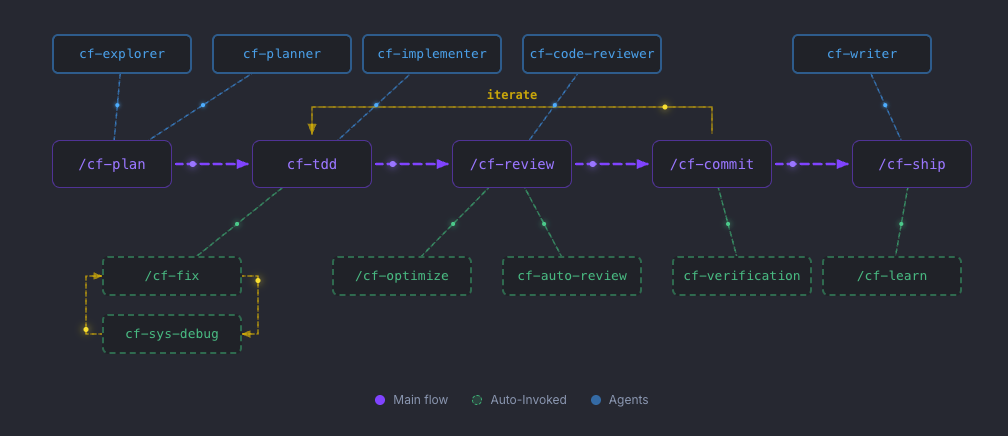
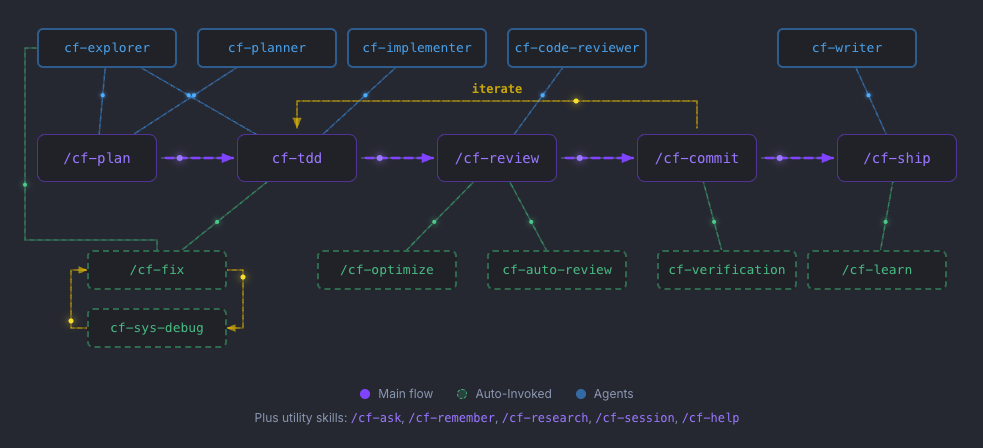
chore: improve the workflow in action graph
chore

diff --git a/website/src/components/landing/HowItWorks.tsx b/website/src/components/landing/HowItWorks.tsx
@@ -97,7 +97,8 @@ const sideNodes: SideNode[] = [
   {
     id: "fix",
     label: "/cf-fix",
-    description: "Auto-invoked when bugs are detected at any stage",
+    description:
+      "Auto-invoked when bugs are detected — calls cf-explorer for codebase analysis",
     parentId: "implement",
     kind: "auto",
   },
@@ -250,6 +251,21 @@ function sidePath(node: SideNode, overrideParentId?: string): string {
   return `M ${parent.x} ${parent.y} L ${side.x} ${side.y}`;
 }
 
+/** Direct connections between side nodes (e.g. fix → explorer) */
+const sideToSideLinks: { fromId: string; toId: string }[] = [
+  { fromId: "fix", toId: "explorer" },
+];
+
+function sideToSidePath(fromId: string, toId: string): string {
+  const from = sideNodes.find((n) => n.id === fromId)!;
+  const to = sideNodes.find((n) => n.id === toId)!;
+  const fp = getSidePos(from);
+  const tp = getSidePos(to);
+  // Start from top edge of "from" node, route left then up to left edge of "to" node
+  const edgeX = Math.max(8, Math.min(fp.x, tp.x) - SIDE_W / 2 - 20);
+  return `M ${fp.x} ${fp.y - SIDE_H / 2} L ${fp.x} ${fp.y - SIDE_H / 2 - 10} L ${edgeX} ${fp.y - SIDE_H / 2 - 10} L ${edgeX} ${tp.y} L ${tp.x - SIDE_W / 2} ${tp.y}`;
+}
+
 /* ────────────────────────────────────────────────────────────
    COMPONENT
    ──────────────────────────────────────────────────────────── */
@@ -303,6 +319,18 @@ export default function HowItWorks() {
     if (sideMatch) {
       connectedIds.add(sideMatch.parentId);
       sideMatch.extraParents?.forEach((ep) => connectedIds.add(ep));
+    }
+    // Side-to-side links
+    sideToSideLinks.forEach(({ fromId, toId }) => {
+      if (hovered === fromId || hovered === toId) {
+        connectedIds.add(fromId);
+        connectedIds.add(toId);
+      }
+    });
+    // fix ↔ sys-debug loop pair
+    if (hovered === "fix" || hovered === "sys-debug") {
+      connectedIds.add("fix");
+      connectedIds.add("sys-debug");
     }
     // Main flow neighbors
     const mainIdx = mainNodes.findIndex((n) => n.id === hovered);
@@ -704,6 +732,48 @@ export default function HowItWorks() {
                   );
                 });
               })}
+
+              {/* ── Side-to-side connections (e.g. fix → explorer) ── */}
+              {sideToSideLinks.map(({ fromId, toId }) => {
+                const d = sideToSidePath(fromId, toId);
+                const dim =
+                  hovered &&
+                  !connectedIds.has(fromId) &&
+                  !connectedIds.has(toId);
+                return (
+                  <g
+                    key={`s2s-${fromId}-${toId}`}
+                    className={`transition-opacity duration-300 ${dim ? "opacity-10" : "opacity-100"}`}
+                  >
+                    <path
+                      d={d}
+                      stroke="currentColor"
+                      className="text-emerald-500/40"
+                      strokeWidth="1.5"
+                      strokeDasharray="4 4"
+                    />
+                    <path
+                      d={d}
+                      stroke="currentColor"
+                      className="auto-dash-animate text-emerald-500/60"
+                      strokeWidth="1.5"
+                      strokeDasharray="4 4"
+                      strokeLinecap="round"
+                    />
+                    <circle
+                      r="2"
+                      className="fill-current text-emerald-400"
+                      filter="url(#glow-e)"
+                    >
+                      <animateMotion
+                        dur="2s"
+                        repeatCount="indefinite"
+                        path={d}
+                      />
+                    </circle>
+                  </g>
+                );
+              })}
             </svg>
 
             {/* ── Main flow nodes (HTML) ── */}
@@ -833,13 +903,13 @@ export default function HowItWorks() {
               Agents
             </span>
           </div>
-          <p className="mt-2 text-center text-[11px] text-slate-500">
+          <p className="mt-2 text-center text-xs text-slate-400">
             Plus utility skills:{" "}
-            <span className="font-mono text-slate-400">/cf-ask</span>,{" "}
-            <span className="font-mono text-slate-400">/cf-remember</span>,{" "}
-            <span className="font-mono text-slate-400">/cf-research</span>,{" "}
-            <span className="font-mono text-slate-400">/cf-session</span>,{" "}
-            <span className="font-mono text-slate-400">/cf-help</span>
+            <a href="/docs/skills/cf-ask/" target="_blank" rel="noopener" className="font-mono text-violet-400 transition-colors hover:text-violet-300">/cf-ask</a>,{" "}
+            <a href="/docs/skills/cf-remember/" target="_blank" rel="noopener" className="font-mono text-violet-400 transition-colors hover:text-violet-300">/cf-remember</a>,{" "}
+            <a href="/docs/skills/cf-research/" target="_blank" rel="noopener" className="font-mono text-violet-400 transition-colors hover:text-violet-300">/cf-research</a>,{" "}
+            <a href="/docs/skills/cf-session/" target="_blank" rel="noopener" className="font-mono text-violet-400 transition-colors hover:text-violet-300">/cf-session</a>,{" "}
+            <a href="/docs/skills/cf-help/" target="_blank" rel="noopener" className="font-mono text-violet-400 transition-colors hover:text-violet-300">/cf-help</a>
           </p>
         </Container>
       </section>
@@ -872,13 +942,13 @@ export default function HowItWorks() {
             Agents
           </span>
         </div>
-        <p className="mb-8 text-center text-[11px] text-slate-500">
+        <p className="mb-8 text-center text-xs text-slate-500">
           Plus utility skills:{" "}
-          <span className="font-mono text-slate-400">/cf-ask</span>,{" "}
-          <span className="font-mono text-slate-400">/cf-remember</span>,{" "}
-          <span className="font-mono text-slate-400">/cf-research</span>,{" "}
-          <span className="font-mono text-slate-400">/cf-session</span>,{" "}
-          <span className="font-mono text-slate-400">/cf-help</span>
+          <a href="/docs/skills/cf-ask/" target="_blank" rel="noopener" className="font-mono text-slate-400 transition-colors hover:text-slate-300">/cf-ask</a>,{" "}
+          <a href="/docs/skills/cf-remember/" target="_blank" rel="noopener" className="font-mono text-slate-400 transition-colors hover:text-slate-300">/cf-remember</a>,{" "}
+          <a href="/docs/skills/cf-research/" target="_blank" rel="noopener" className="font-mono text-slate-400 transition-colors hover:text-slate-300">/cf-research</a>,{" "}
+          <a href="/docs/skills/cf-session/" target="_blank" rel="noopener" className="font-mono text-slate-400 transition-colors hover:text-slate-300">/cf-session</a>,{" "}
+          <a href="/docs/skills/cf-help/" target="_blank" rel="noopener" className="font-mono text-slate-400 transition-colors hover:text-slate-300">/cf-help</a>
         </p>
 
         <div className="relative mx-auto max-w-md">
